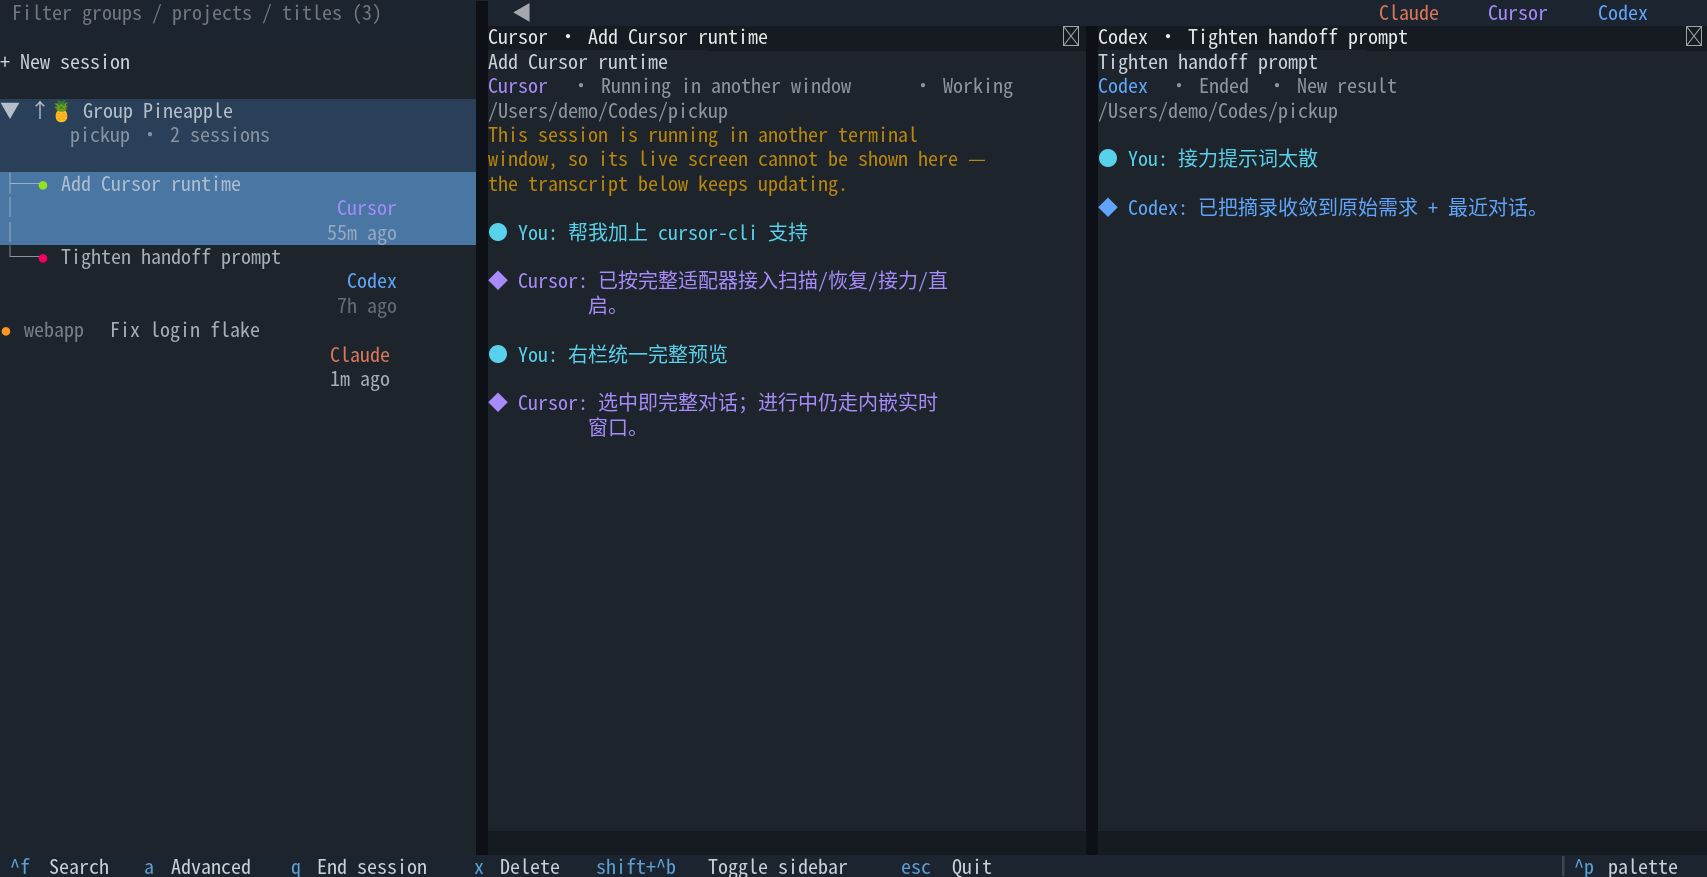
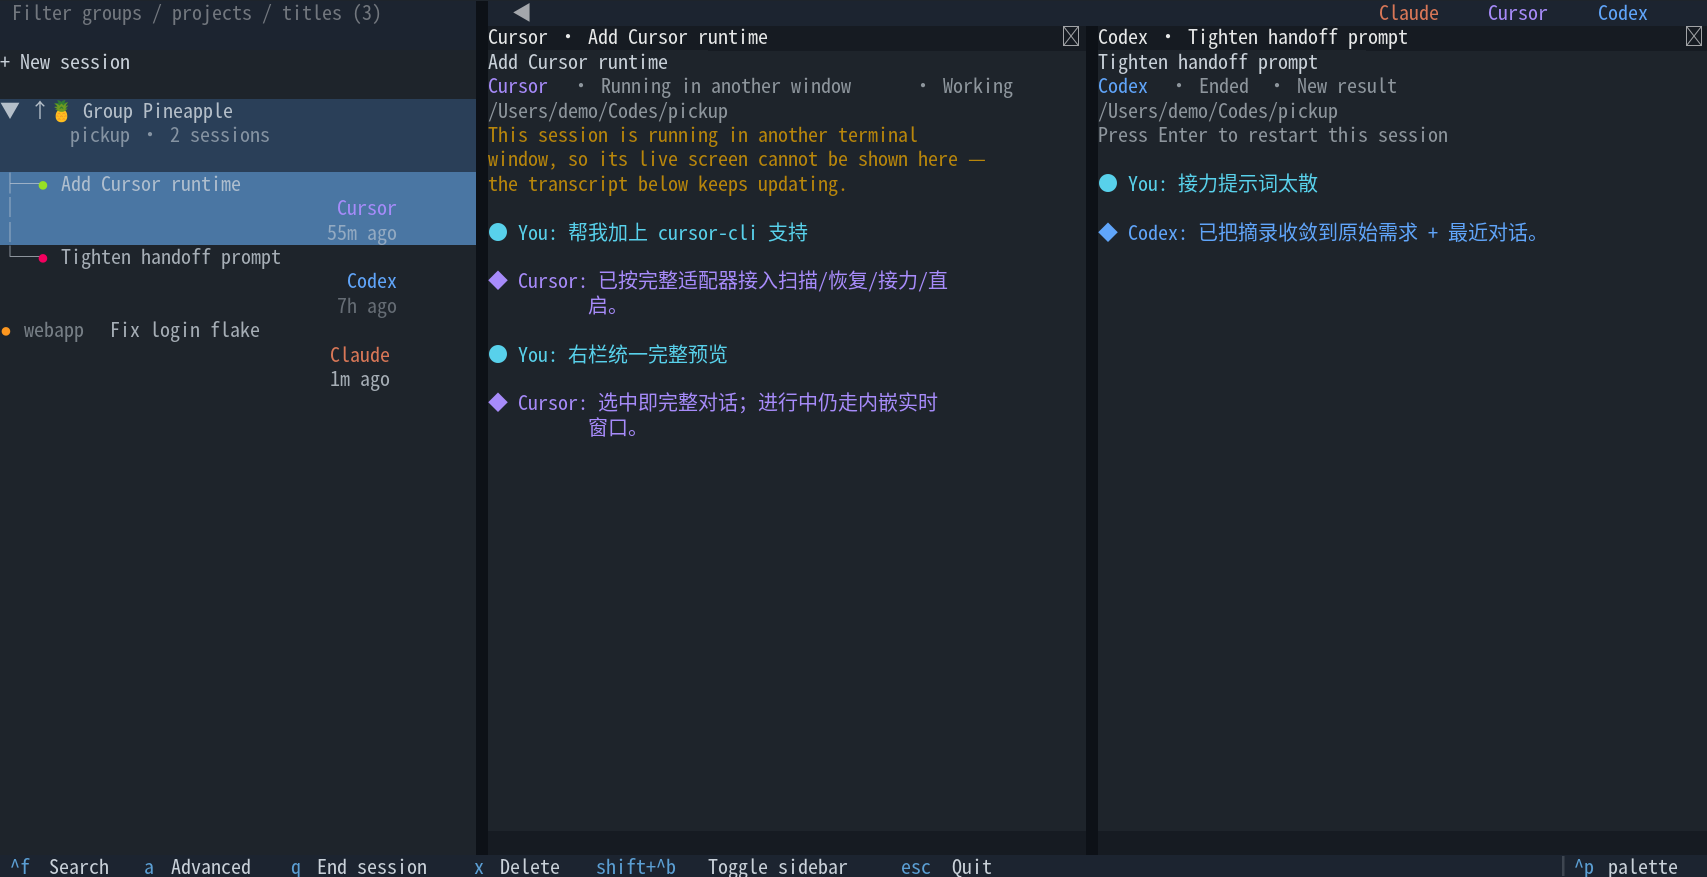
docs: 记录已结束会话的回车重启入口
侧边栏与右栏（静态预览格 / 「会话已结束」格）都能回车重启，组内已结束成员
不再是死胡同；终端界面知识库补 §6 约束与交互表、内嵌终端知识库补按键分流边界、
README 补英文说明，并重出主界面截图（右栏详情头新增重启提示）。

Changed region(s): [[0.621, 0.1539, 0.9004, 0.2771], [0.8073, 0.1539, 0.8383, 0.1847]]

diff --git a/docs/TERMINAL_UI_KNOWLEDGE_BASE.md b/docs/TERMINAL_UI_KNOWLEDGE_BASE.md
@@ -166,7 +166,8 @@ stateDiagram-v2
 
 | 用户动作 | 前置条件 | 流程 | 结果 |
 |---|---|---|---|
-| 回车或单击会话卡 | 侧边栏选中已有会话 | 构建恢复或接力计划；优先打开已有托管会话 | 右栏内嵌展示；输入直接交给该格（仅限活着的实时会话） |
+| 回车或单击会话卡 | 侧边栏选中已有会话 | 构建恢复或接力计划；优先打开已有托管会话。**已结束的会话组成员也走这一支重启**，不再只把会话组摆一遍 | 右栏内嵌展示；输入直接交给该格（仅限活着的实时会话） |
+| 回车 | 焦点在右栏静态预览格或「会话已结束」格 | `EmbedPane._is_restart_target()` → `MainScreen._restart_session_from_pane()`，与侧边栏回车同一条启动路径（含"在别的窗口跑"的二次确认） | 就地重启该会话；原属会话组的成员整组摆回、只换它那一格 |
 | 单击或回车会话组卡 | 侧边栏选中会话组 | 右栏跟随展示该组合；焦点留在侧边栏 | 进成员会话卡才把输入交给右栏 |
 | “＋ 新建会话” | 用户需选择项目或运行时 | 先选项目，再选运行时 | 创建空白会话 |
 | 右栏顶栏点助手 | 当前项目目录已知且未满四格 | `_on_runtime_pick` 在当前项目下加一格托管 | 新格进入分屏组合 |
@@ -259,7 +260,8 @@ stateDiagram-v2
 | 点击会话卡的开关语义 | 侧边栏 → 右栏 | `SessionListView.focus_on_click()` / `take_focus_before_click()`、`MainScreen._click_returns_focus_to_list()` | 点当前持有输入的那张卡=撤回焦点；判定只能用按下前焦点 |
 | 分屏焦点同步 | 右栏 → 侧边栏 | `PaneCell._notify_pane_focused`、`MainScreen._on_pane_focused`、`SessionListView.select_session_key` | 聚焦某一分屏时侧边栏高亮切到对应会话；不得因此 remount 右栏 |
 | 按键路由 | 搜索与焦点 | `MainScreen.on_key()`、`on_input_submitted()` | `/` 聚焦筛选项目；`Ctrl+F` 打开全文搜索弹窗（右栏实时格持焦时让位给助手）；Down/Enter 回列表；Esc 先清空查询再退出 |
-| 选择事件 | 会话操作 | `MainScreen.on_list_view_selected()` | 回车针对新建项或当前会话分流 |
+| 选择事件 | 会话操作 | `MainScreen.on_list_view_selected()` | 回车针对新建项 / 会话组 / 当前会话分流；组成员只在还活着时走「展示组合」，已结束的照常重启 |
+| 已结束会话重启 | 右栏 → 启动 | `EmbedPane._is_restart_target()`、`PaneCell._restart_self()`、`MainScreen._restart_session_from_pane()` | 静态预览格与「会话已结束」格上的回车 = 重启；与侧边栏回车共用 `_open_or_exit()` |
 | 模态流程 | 高级操作 / 新建 / 确认 | `ui/modals.py` | 接力运行时选择（`RuntimePickerModal`）、新建会话双栏选择（`NewSessionModal`）和结束确认；未安装运行时不可确认 |
 | 右栏流程 | 静态预览 / 实时画面 | `EmbedPane.show_detail()`、`EmbedPane.focus_session()` | 根据会话是否托管选择展示模式 |
 | 截图脚本 | 演示截图 | `docs/screenshots/capture.py` | 生成可提交的虚构数据截图 `docs/screenshots/list.png`（主界面）与 `search.png`（全文搜索弹窗） |
@@ -324,6 +326,7 @@ stateDiagram-v2
 - 【消歧】“对话预览”固定在右栏，旧 Space 全屏预览入口不得复活；`e` 全屏接管已删除。默认展示最新消息（底部），不是会话开头。
 - 【焦点归属】焦点跟随**明确意图**：回车或单击会话卡打开、新建 / 顶栏加格 / 直启托管成功、关掉持有输入的那格 → 输入交给右栏；上下浏览（含方向键选择跟随）、单击/回车会话组卡、后台重扫一律不抢焦点。进入 pickup 时默认高亮列表第一条会话或会话组（跳过「＋ 新建」），焦点在侧边栏。自动聚焦只认活着的实时会话，且弹窗或筛选框正持有输入时不抢（`MainScreen._can_autofocus()`）。右栏滚轮与焦点无关。
 - **AI 易错点**【禁止】把自动聚焦挂到 `_follow_current_selection()` 上 -> 浏览必须留在列表（原因：一抢焦点方向键就全发给助手，列表没法继续用）。单击会话卡不属于浏览：Textual 的 `ListView` 点击就发 `Selected`，与回车同一条打开路径（真的会拉起 / 接管会话），必须一样自动聚焦。会话组卡例外：Selected 只展示组合、`focus_pane=False` 并 `_focus_list()`，不要跟会话卡共用「打开即聚焦」。
+- **AI 易错点**【已结束会话必须永远留着重启入口】已结束会话默认只给历史预览，这是对的；但**任何一条分支都不许把它变成没有重启出口的死胡同**。历史上踩过的两处：①「属于持久会话组的成员」在 `on_list_view_selected()` 里被 `_show_session_group()` 直接吞掉 return，而会话组在成员结束后仍然保留，于是组内历史会话点进去永远只有静态预览——现在这条分支加了 `_is_session_active()` 门槛，只有活着的成员才走「把输入交给它那一格」，已结束的往下走启动那一支；②右栏本身没有按键入口，用户看着预览却无从下手。现在 `EmbedPane` 的静态预览格与「会话已结束」格都把回车解释成重启（`_is_restart_target()`；托管首帧未到的回退态不算，那条会话活着，回车必须原样转发给助手），详情头也写明 `detail.restart_hint`。**重启组成员后必须整组摆回**（`_on_embed_hosted` 判 `_split_store.get_group()`），退回单格会把用户的分屏组合当场拆掉。已结束格重启前要先 `store.mark_hosted(key, None)` 撤掉过期托管标记，否则 `_embed_open` 认定它「已托管」，转身把那张死画面又摆一遍。占位卡（`provisional`，接力/空白新建还没落盘历史就退出了）没有可恢复的会话，只响铃不启动。回归：`RestartEndedSessionTests`。
 - **AI 易错点**【初次填充的 index 会被 Textual 打回 0】`SessionListView` 在 `clear()+extend()` 后立刻设 `index=1` 当场看着对，下一帧 refresh 会被 ListView 异步重置到 0（落到「＋ 新建」）。必须经 `_apply_index_after_rebuild()`：当场赋值后再 `call_after_refresh` 钉一次；只在仍停在 0 且目标非 0 时纠正。回归：`test_startup_selects_first_session_not_new_row`、`test_startup_selects_first_group_when_list_starts_with_group`。
 - 【点击是对称开关】点会话卡 → 输入交给右栏；再点同一张卡（该格正持有输入）→ 焦点撤回侧边栏、不重新打开会话；点别的会话卡仍是「打开」（右栏切到该会话、焦点留在右栏）。判定依据是 `SessionListView.focus_on_click()` 记下的**按下前焦点**（`take_focus_before_click()` 一次性消费），不能事后现查——Textual 在 MouseDown 阶段先 `set_focus(列表)` 再把事件发下来，处理 `ListView.Selected` 时焦点早已是列表。
 - **AI 易错点**【按下前焦点必须当帧解析成会话键】`focus_on_click()` 只能存**会话键**（`_focused_live_session_key()`），不能存焦点控件对象事后反查它绑着哪个会话：点击后紧跟的选择跟随会把同一个 `EmbedPane` 控件就地改绑到刚点的会话（`PaneCell.rebind` 复用控件不重建），于是「按下前持有输入的控件」和「刚点的这张卡」指向同一个控件，被误判成「点了当前持有输入的那张卡」而把焦点撤回侧边栏。真机表现：连续点不同会话卡，焦点在侧边栏和右栏之间来回跳（点一次进、点一次不进）。回归：`test_consecutive_clicks_on_other_cards_always_hand_input_to_pane`。
@@ -363,7 +366,7 @@ python3 docs/screenshots/capture.py
 python3 -m pickup --limit 5
 ```
 
-人工进入终端界面确认：回车打开运行中会话后可直接打字（无需点鼠标），`Ctrl+\` 回列表后再**单击**该会话卡同样能直接打字（不必先点右栏），**再点同一张卡焦点撤回侧边栏、又点一次再进去**（点击开关必须对称），`Ctrl+\` 回列表后该格压暗且底条提示输入未接管，底部快捷键栏在两种焦点下分别显示右栏 / 列表侧动作；Footer 显示高级操作；高级操作动态列出运行时且默认选中第一个已安装的其他运行时；Esc 先关闭弹窗再退出；**每个弹窗（高级操作、新建会话、结束/删除确认、`Ctrl+F` 全文搜索）都点一次框外空白确认能关掉，点框内的标题、输入框、列表项则不能关**；选择已结束会话时右栏展示完整对话（`角色: 消息` 同行且同色）；`/`、Down、Enter 与搜索框 Esc 的焦点行为正确。用户本人还应在真实终端点一次关键路径，这是本域最终的体验验收。
+人工进入终端界面确认：回车打开运行中会话后可直接打字（无需点鼠标），`Ctrl+\` 回列表后再**单击**该会话卡同样能直接打字（不必先点右栏），**再点同一张卡焦点撤回侧边栏、又点一次再进去**（点击开关必须对称），`Ctrl+\` 回列表后该格压暗且底条提示输入未接管，底部快捷键栏在两种焦点下分别显示右栏 / 列表侧动作；Footer 显示高级操作；高级操作动态列出运行时且默认选中第一个已安装的其他运行时；Esc 先关闭弹窗再退出；**每个弹窗（高级操作、新建会话、结束/删除确认、`Ctrl+F` 全文搜索）都点一次框外空白确认能关掉，点框内的标题、输入框、列表项则不能关**；选择已结束会话时右栏展示完整对话（`角色: 消息` 同行且同色）且详情头写着回车可重启，**在预览格上点一下再按回车能就地把它拉起来**，会话在某一格里跑完退出后（画面变「会话已结束」）按回车同样能原地重启；`/`、Down、Enter 与搜索框 Esc 的焦点行为正确。用户本人还应在真实终端点一次关键路径，这是本域最终的体验验收。
 
 焦点类问题（谁持有输入、点击后跳没跳过去）**不要靠真机反复肉眼试**：写一次性 Pilot 脚本复现最快——`await pilot.click(card)` 能精确模拟点会话卡，配合把 `SplitPaneArea` / `MainScreen` 的相关方法临时包一层打印（入参、返回值、`app.focused`）就能看清整条异步时序。真机 `selftest.sh` 里注入 SGR 假鼠标偶发不触发命中，自动化点击一律走 Pilot，`selftest.sh` 只用 Tab / 按键覆盖键盘路径。另外 `selftest.sh` 末尾「直启光标锚定」那步的等待窗口只有 6s，机器负载高时会假失败——重跑确认再判定是否真回归，别直接当成自己改坏了。
 

diff --git a/docs/EMBEDDED_TERMINAL_KNOWLEDGE_BASE.md b/docs/EMBEDDED_TERMINAL_KNOWLEDGE_BASE.md
@@ -100,6 +100,7 @@ stateDiagram-v2
 
 - 普通字符经 `send_literal()` 原样发送；特殊键经 `translate_textual_key()` 转成 tmux 键名后由 `send_key()` 发送。仅在右栏持有键盘焦点时转发。
 - `Ctrl+C` 有选中文本时复制；没有选区时发送给助手中断运行，不能让终端界面自身退出。
+- **这一格没有活着的助手时，回车不转发、改为重启该会话**（`_is_restart_target()`：静态对话预览格与「会话已结束」格）。托管首帧尚未到达那种回退态**不算**——那条会话活着，回车必须原样发给助手。重启动作本身由界面层执行，见 [终端界面知识库](TERMINAL_UI_KNOWLEDGE_BASE.md) §6「已结束会话必须永远留着重启入口」。
 - 粘贴走 `set-buffer` + `paste-buffer -p`，保留 bracketed paste 语义。
 - pane 声明鼠标捕获时，滚轮以 press-only SGR 鼠标序列转发，并由后台队列限速、积压丢旧；否则滚轮调整 `history_offset`，以 `capture-pane -S/-E` 抓取真实历史窗口。
 - 滚轮命中右栏即处理，不要求右栏持有键盘焦点；命中左栏则滚会话列表。
@@ -232,7 +233,7 @@ stateDiagram-v2
 - **AI 易错点**【禁止】把托管窗缩到极窄（低于 `MIN_HOST_WIDTH`×`MIN_HOST_HEIGHT`）-> 创建用 `normalize_host_size` 抬下限，后续缩放用 `should_resize_host` 过滤；过窄直接跳过（原因：助手会按当前列数硬换行写入 scrollback，恢复宽度后往上滚仍是窄条历史，无法自动还原）。**代价要知道：格宽低于下限时托管窗停在下限宽度、右栏只画得下左边一部分列，助手输出右侧被裁掉（不是重排）。** 分屏格数上限提到 4 格后这已是常态——四格都不低于下限，终端大约要 200 列以上（左栏 39 + 间隔，再乘四格 40）；`Ctrl+Shift+B` 收起左栏能省回约 40 列。这是刻意取舍（裁显示 vs 污染 scrollback，选前者，可恢复），不要改成"跟着格宽一起缩"。
 - **AI 易错点**【禁止】`resize-window` 后立刻把每一帧 Cursor/Claude 重排中间态刷到右栏 -> 已有 live `_grid` 时必须 `_begin_resize_capture_hold`，连续稳定帧或超时后再一次跳到最新（原因：助手重排观感等同「疯狂滚动」数秒）。
 - **AI 易错点**【禁止】把自动聚焦挂到「选择跟随」上 -> 只有明确意图（回车、新建 / 直启托管成功、关掉持有输入的格）才交焦点，上下浏览必须留在列表（原因：浏览一抢焦点，方向键就都发给助手了，列表没法用）。
-- **AI 易错点**【禁止】自动把焦点交给静态预览格或已结束的格 -> `focus_session_key` 必须带 `only_live=True`（原因：那些格收不到输入，用户敲的字直接丢，比让他多点一下鼠标糟得多）。
+- **AI 易错点**【禁止】自动把焦点交给静态预览格或已结束的格 -> `focus_session_key` 必须带 `only_live=True`（原因：那些格收不到输入，用户敲的字直接丢，比让他多点一下鼠标糟得多）。**但用户自己点进这类格子是允许的**，此时回车不再是「丢掉的输入」而是「重启这条会话」（见上文输入与滚动分流），改这块时别把两件事混成一条「已结束的格不处理按键」。
 - **AI 易错点**【隐性依赖】实时格持有输入时，Screen 上 `priority=True` 的翻页 / Home / End 绑定会**先于**面板拿到按键。必须靠 `MainScreen.check_action` 返回 `False` 让路，`run_action` 才会跳过派发、把键透传给托管会话。
 - **AI 易错点**【隐性依赖】`_mount_panes_async` 默认会把焦点还给原先持有焦点的列表；带着 `focus_pane=True` 的调用必须绕开这段，否则自动聚焦会在挂载后被立刻撤销。
 - **AI 易错点**【隐性依赖】剪贴板图片粘贴走的哨兵协议（`␞PICKUP_IMG_BEGIN␞<base64>␞PICKUP_IMG_END␞`，`embed.py` 的 `_IMG_SENTINEL_BEGIN`/`_IMG_SENTINEL_END`）是与远程网页终端网关 `shell-gate`（另一仓库，`internal/server/web/enhance.js`）之间的跨仓库约定 —— 改任一侧的哨兵字符串都必须同步另一侧，否则粘贴的图片会被当成普通文本整段发给 agent，不会报错也不会落盘，只能靠肉眼发现。本域看不到 `shell-gate` 侧代码，改动前先确认对方现状。

diff --git a/README.md b/README.md
@@ -195,6 +195,10 @@ block Cursor. Use the `pickup observer ... cursor` commands above to audit, prev
   live terminal there) **and hands keyboard input to that pane** — start typing to the agent
   right away, no click needed. Arrow-key browsing never steals focus (and never starts an agent),
   so the list stays usable; `Ctrl-\` gives input back to it.
+- An ended session shows its transcript instead of a live screen, and `Enter` restarts it — from
+  the sidebar, and also with focus already in the right-hand pane (both the transcript preview and
+  the `Session ended` screen you get when an agent exits inside a pane). Restarting a member of a
+  split group keeps the rest of the split in place.
 - Click a session card to do the same thing as `Enter`. Clicking is a symmetric toggle: click the
   card of the pane that currently holds input and keyboard control goes back to the sidebar
   (same as `Ctrl-\`, the session keeps running); click it again to step back in. Clicking a pane
@@ -347,7 +351,7 @@ agent workflows.
 | `Up` / `Down` / `j` / `k` | Move selection |
 | `/` | Focus the sidebar filter box (case-insensitive fuzzy match on group name, project name, path and session title) |
 | `Ctrl+F` | Full-text search across session conversations; results show the matching lines, newest session first. `Enter` opens the selected session in the sidebar |
-| `Enter` | Resume selected session with the native runtime (reattach if it's already running in the background); on the pinned first row `+ New session` (Chinese: `＋ 新建会话`), start the new-session flow instead |
+| `Enter` | Resume selected session with the native runtime (reattach if it's already running in the background); on the pinned first row `+ New session` (Chinese: `＋ 新建会话`), start the new-session flow instead. Also works with focus in the right-hand pane whenever that pane holds a conversation preview or a `Session ended` screen — restarting an ended session never requires going back to the sidebar |
 | `a` | Open advanced handoff actions |
 | `q` | End a backgrounded / in-progress (keep-alive) session; press `q` again in the confirm dialog |
 | `x` | Permanently delete the selected local session (or every session in the selected group); press `x` again in the confirm dialog |
